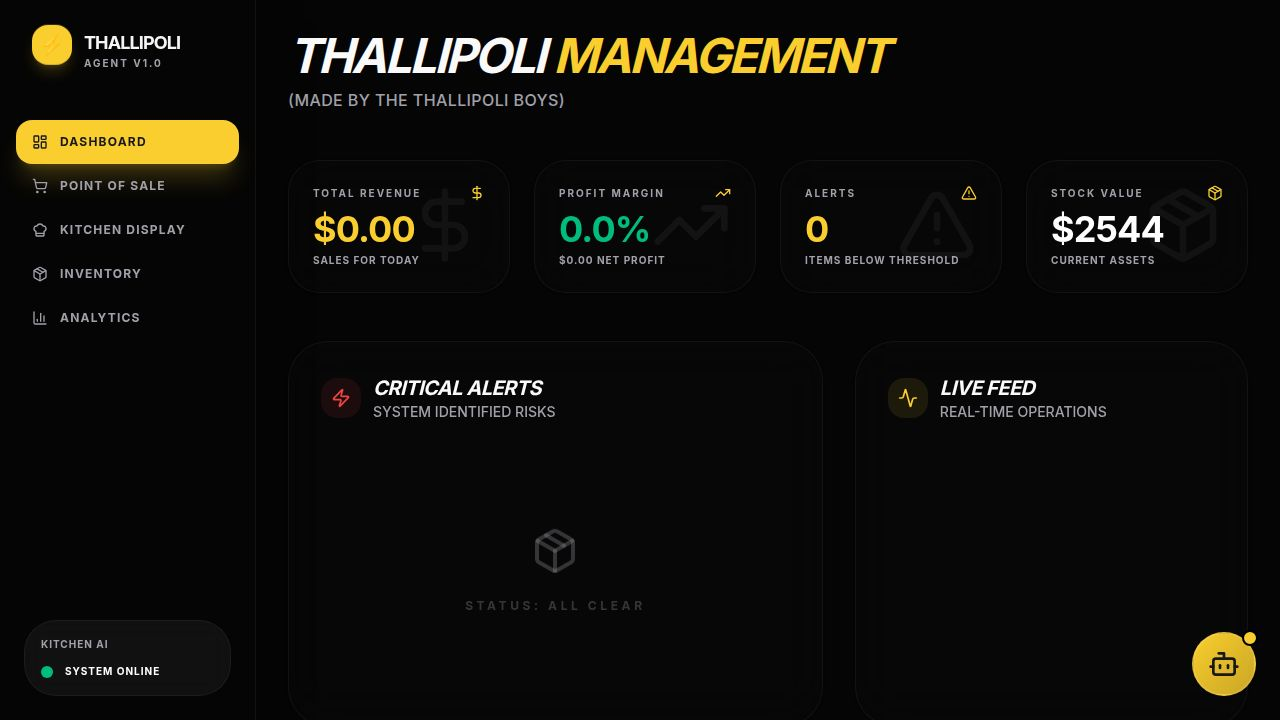
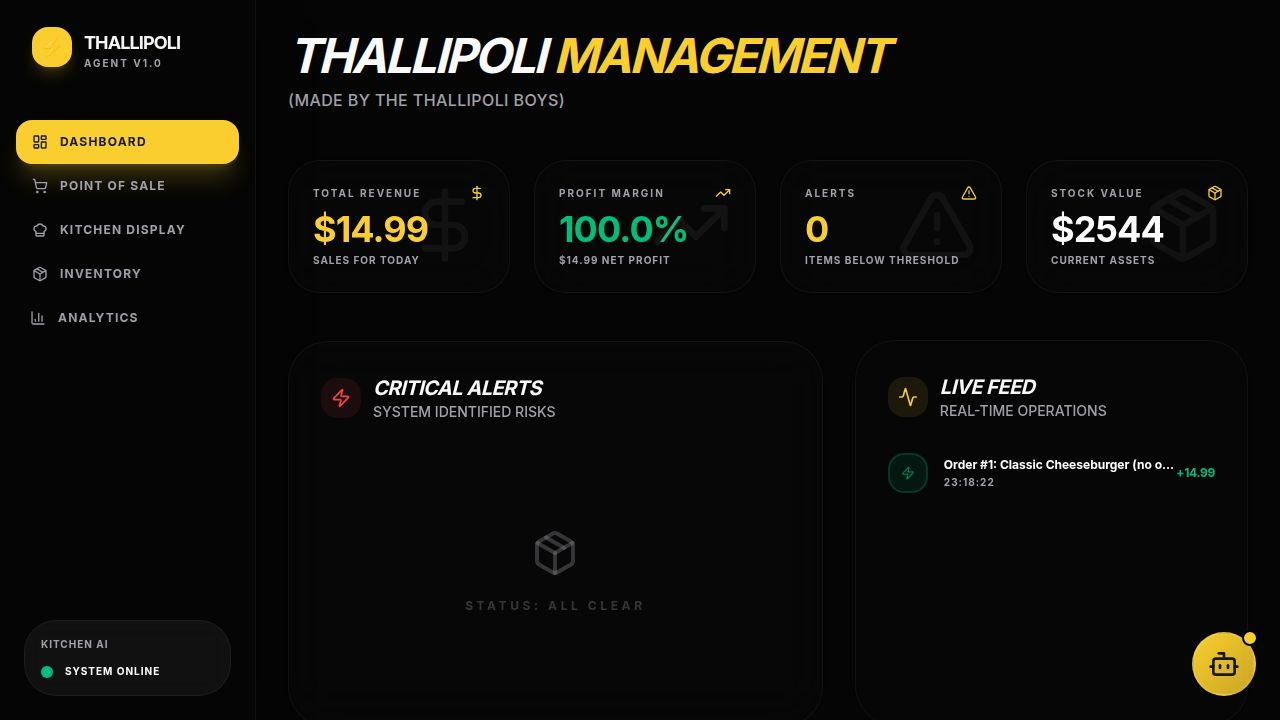
Improve order processing and inventory management functions
Update `processSale` to return a Promise, making `checkout` an async function that awaits all sales. Add new API endpoints for adding funds and restocking inventory. Remove unused `orderId` from `process_order`.

Replit-Commit-Author: Agent
Replit-Commit-Session-Id: 148e89a8-e40c-4eac-8624-4a512c91188b
Replit-Commit-Checkpoint-Type: intermediate_checkpoint
Replit-Commit-Event-Id: 6ac1e145-a768-4ce3-b652-2724d12c24d3
Replit-Commit-Screenshot-Url: https://storage.googleapis.com/screenshot-production-us-central1/72ba8fc1-8581-4828-bb0f-57bfd9c7b2e3/148e89a8-e40c-4eac-8624-4a512c91188b/0oNAqrn
Replit-Helium-Checkpoint-Created: true

diff --git a/client/src/lib/store.tsx b/client/src/lib/store.tsx
@@ -18,7 +18,7 @@ interface StoreContextType {
   cart: CartItem[];
 
   restockItem: (id: string, amount: number) => void;
-  processSale: (menuItemId: string, modifications?: { remove: string[], add: string[] }) => boolean;
+  processSale: (menuItemId: string, modifications?: { remove: string[], add: string[] }) => Promise<boolean>;
   recordWaste: (menuItemId: string, reason: string) => void;
   submitRating: (menuItemId: string, rating: number) => void;
   getLowStockItems: () => InventoryItem[];
@@ -139,19 +139,18 @@ export function StoreProvider({ children }: { children: React.ReactNode }) {
     setCart([]);
   };
 
-  const checkout = () => {
+  const checkout = async () => {
     if (cart.length === 0) return;
     
-    let successCount = 0;
-    cart.forEach(item => {
-      const success = processSale(item.menuItemId, item.modifications);
-      if (success) successCount++;
-    });
+    // Process all items and wait for all results
+    const results = await Promise.all(
+      cart.map(item => processSale(item.menuItemId, item.modifications))
+    );
+    
+    const successCount = results.filter(Boolean).length;
 
     if (successCount > 0) {
-      setCart([]);
-      
-      // Add current order to buffer for analysis
+      // Store cart data before clearing
       const orderTotal = cart.reduce((sum, item) => {
         const m = menu.find(i => i.id === item.menuItemId);
         return sum + (m?.price || 0) * item.quantity;
@@ -161,6 +160,8 @@ export function StoreProvider({ children }: { children: React.ReactNode }) {
          const m = menu.find(i => i.id === item.menuItemId);
          return m?.name || 'Unknown';
       });
+
+      setCart([]);
 
       setOrderBuffer(prev => {
         const newBuffer = [...prev, { items: orderItems, total: orderTotal }];
@@ -186,7 +187,7 @@ export function StoreProvider({ children }: { children: React.ReactNode }) {
         return newBuffer;
       });
 
-      // Generate AI Real-time Insight (Keep random one for immediate feedback too, or remove if too noisy)
+      // Generate AI Real-time Insight
       const randomInsight = [
         "Insight: High demand for burgers detected. Prepare more patties.",
         "Insight: Salad orders increasing. Ensure lettuce is prepped.",
@@ -261,13 +262,34 @@ export function StoreProvider({ children }: { children: React.ReactNode }) {
     });
   };
 
-  const addFunds = (amount: number) => {
-    setOperatingFunds(prev => prev + amount);
-    addLog('system', `Funds Added: $${amount.toFixed(2)}`);
-    toast({
-      title: "Funds Added",
-      description: `$${amount.toFixed(2)} added to operating budget.`,
-    });
+  const addFunds = async (amount: number) => {
+    try {
+      const res = await fetch('/api/funds/add', {
+        method: 'POST',
+        headers: { 'Content-Type': 'application/json' },
+        body: JSON.stringify({ amount }),
+      });
+      
+      if (res.ok) {
+        toast({
+          title: "Funds Added",
+          description: `$${amount.toFixed(2)} added to operating budget.`,
+        });
+        refreshData();
+      } else {
+        toast({
+          variant: "destructive",
+          title: "Failed",
+          description: "Could not add funds.",
+        });
+      }
+    } catch (error) {
+      toast({
+        variant: "destructive",
+        title: "Error",
+        description: "Failed to connect to server.",
+      });
+    }
   };
 
   const addLog = (type: LogEntry['type'], message: string, amount: number = 0) => {
@@ -314,7 +336,7 @@ export function StoreProvider({ children }: { children: React.ReactNode }) {
     });
   }, [inventory]);
 
-  const restockItem = (id: string, amount: number) => {
+  const restockItem = async (id: string, amount: number) => {
     const item = inventory.find(i => i.id === id);
     if (!item) return;
 
@@ -329,68 +351,84 @@ export function StoreProvider({ children }: { children: React.ReactNode }) {
       return;
     }
 
-    setOperatingFunds(prev => prev - cost);
-    
-    setInventory(prev => prev.map(i => 
-      i.id === id ? { ...i, quantity: i.quantity + amount, lastRestocked: new Date().toISOString() } : i
-    ));
-    
-    setTotalCost(prev => prev + cost);
-    addLog('restock', `Replenished ${amount}${item.unit} of ${item.name}`, -cost);
-    addLog('email', `RESTOCK NOTIFICATION: ${item.name} has been replenished by ${amount} ${item.unit}`);
-    
-    toast({
-      title: "Stock Replenished",
-      description: `Added ${amount}${item.unit} to ${item.name}. Register updated.`,
-    });
+    try {
+      const res = await fetch('/api/inventory/restock', {
+        method: 'POST',
+        headers: { 'Content-Type': 'application/json' },
+        body: JSON.stringify({ itemId: id, quantity: amount }),
+      });
+      
+      if (res.ok) {
+        toast({
+          title: "Stock Replenished",
+          description: `Added ${amount}${item.unit} to ${item.name}. Register updated.`,
+        });
+        refreshData();
+      } else {
+        const error = await res.json();
+        toast({
+          variant: "destructive",
+          title: "Restock Failed",
+          description: error.message || "Failed to restock item.",
+        });
+      }
+    } catch (error) {
+      toast({
+        variant: "destructive",
+        title: "Error",
+        description: "Failed to connect to server.",
+      });
+    }
   };
 
-  const processSale = (menuItemId: string, modifications?: { remove: string[], add: string[] }): boolean => {
+  const processSale = async (menuItemId: string, modifications?: { remove: string[], add: string[] }): Promise<boolean> => {
     const menuItem = menu.find(m => m.id === menuItemId);
     if (!menuItem) return false;
 
-    // Check availability
-    const canMake = menuItem.ingredients.every(ing => {
-      const invItem = inventory.find(i => i.id === ing.inventoryId);
-      return invItem && invItem.quantity >= ing.quantity;
-    });
-
-    if (!canMake) {
+    try {
+      const res = await fetch('/api/orders', {
+        method: 'POST',
+        headers: { 'Content-Type': 'application/json' },
+        body: JSON.stringify({
+          menuItemId,
+          customerName: 'POS Order',
+          allergies: '',
+          removedIngredients: modifications?.remove?.join(',') || '',
+          specialInstructions: modifications?.add?.join(',') || '',
+          quantity: 1,
+        }),
+      });
+      
+      if (res.ok) {
+        const data = await res.json();
+        toast({
+          title: "Order Processed",
+          description: `${menuItem.name} sent to kitchen.`,
+        });
+        
+        // Generate insight for POS order
+        const insight = `POS: New order for ${menuItem.name} - $${menuItem.price.toFixed(2)}`;
+        setRealtimeInsights(prev => [insight, ...prev].slice(0, 10));
+        
+        refreshData();
+        return true;
+      } else {
+        const error = await res.json();
+        toast({
+          variant: "destructive",
+          title: "Order Failed",
+          description: error.message || "Failed to process order.",
+        });
+        return false;
+      }
+    } catch (error) {
       toast({
         variant: "destructive",
-        title: "Out of Stock",
-        description: `Cannot make ${menuItem.name}. Missing ingredients.`,
+        title: "Error",
+        description: "Failed to connect to server.",
       });
       return false;
     }
-
-    // Deduct stock (modified)
-    setInventory(prev => prev.map(item => {
-      const ing = menuItem.ingredients.find(i => i.inventoryId === item.id);
-      if (!ing) return item;
-      
-      // If user removed this ingredient, don't deduct
-      if (modifications?.remove.includes(item.name)) return item;
-      
-      return { ...item, quantity: Math.max(0, item.quantity - ing.quantity) };
-    }));
-
-    setTotalRevenue(prev => prev + menuItem.price);
-    setOperatingFunds(prev => prev + menuItem.price); // Revenue goes back to funds
-    
-    let modText = "";
-    if (modifications && (modifications.remove.length > 0 || modifications.add.length > 0)) {
-      modText = ` (Mods: -${modifications.remove.join(',')} +${modifications.add.join(',')})`;
-    }
-    
-    addLog('sale', `Sold 1x ${menuItem.name}${modText}`, menuItem.price);
-    
-    toast({
-      title: "Order Processed",
-      description: `${menuItem.name}${modText} sent to kitchen.`,
-    });
-
-    return true;
   };
 
   const recordWaste = (menuItemId: string, reason: string) => {

diff --git a/server/routes.ts b/server/routes.ts
@@ -317,7 +317,6 @@ async function handleFunctionCall(functionName: string, args: any): Promise<any>
           status: "pending"
         },
         [{
-          orderId: 0,
           menuItemId: args.menuItemId,
           menuItemName: menuItem.name,
           price: menuItem.price,
@@ -661,6 +660,126 @@ export async function registerRoutes(
         totalCost: cost,
         lowStockCount: lowStock.length,
       });
+    } catch (error: any) {
+      res.status(500).json({ error: error.message });
+    }
+  });
+
+  // Add funds endpoint
+  app.post("/api/funds/add", async (req: Request, res: Response) => {
+    try {
+      const { amount } = req.body;
+      if (typeof amount !== 'number' || amount <= 0) {
+        return res.status(400).json({ message: "Invalid amount" });
+      }
+      
+      const fundsStr = await storage.getSetting("operating_funds");
+      const currentFunds = fundsStr ? parseFloat(fundsStr.value) : 5000;
+      const newFunds = currentFunds + amount;
+      
+      await storage.updateSetting("operating_funds", newFunds.toString());
+      await storage.createLog({ id: `log-${Date.now()}-${Math.random().toString(36).slice(2, 9)}`, type: "system", message: `Funds Added: $${amount.toFixed(2)}`, amount: 0 });
+      
+      res.json({ success: true, newFunds });
+    } catch (error: any) {
+      res.status(500).json({ error: error.message });
+    }
+  });
+
+  // Restock inventory endpoint
+  app.post("/api/inventory/restock", async (req: Request, res: Response) => {
+    try {
+      const { itemId, quantity } = req.body;
+      if (!itemId || typeof quantity !== 'number' || quantity <= 0) {
+        return res.status(400).json({ message: "Invalid item or quantity" });
+      }
+      
+      const item = await storage.getInventoryItem(itemId);
+      if (!item) {
+        return res.status(404).json({ message: "Item not found" });
+      }
+      
+      const cost = quantity * item.pricePerUnit;
+      
+      // Check funds
+      const fundsStr = await storage.getSetting("operating_funds");
+      const currentFunds = fundsStr ? parseFloat(fundsStr.value) : 5000;
+      
+      if (currentFunds < cost) {
+        return res.status(400).json({ message: `Insufficient funds. Need $${cost.toFixed(2)} but only have $${currentFunds.toFixed(2)}.` });
+      }
+      
+      // Deduct from funds
+      await storage.updateSetting("operating_funds", (currentFunds - cost).toString());
+      
+      // Update inventory
+      await storage.updateInventoryQuantity(itemId, item.quantity + quantity);
+      
+      // Log the restock
+      await storage.createLog({ id: `log-${Date.now()}-${Math.random().toString(36).slice(2, 9)}`, type: "restock", message: `Replenished ${quantity}${item.unit} of ${item.name}`, amount: -cost });
+      await storage.createLog({ id: `log-${Date.now()}-${Math.random().toString(36).slice(2, 9)}`, type: "email", message: `RESTOCK NOTIFICATION: ${item.name} has been replenished by ${quantity} ${item.unit}`, amount: 0 });
+      
+      res.json({ success: true, newQuantity: item.quantity + quantity, cost });
+    } catch (error: any) {
+      res.status(500).json({ error: error.message });
+    }
+  });
+
+  // Create order endpoint (for POS and API orders)
+  app.post("/api/orders", async (req: Request, res: Response) => {
+    try {
+      const { menuItemId, customerName, allergies, removedIngredients, specialInstructions, quantity } = req.body;
+      
+      const menuItem = await storage.getMenuItem(menuItemId);
+      if (!menuItem) {
+        return res.status(404).json({ message: "Menu item not found" });
+      }
+      
+      const qty = quantity || 1;
+      const totalPrice = menuItem.price * qty;
+      
+      // Deduct inventory for this order
+      const ingredients = await storage.getMenuIngredients(menuItemId);
+      const removedList = (removedIngredients || '').split(',').map((s: string) => s.trim().toLowerCase()).filter(Boolean);
+      
+      for (const ing of ingredients) {
+        const invItem = await storage.getInventoryItem(ing.inventoryId);
+        if (invItem) {
+          const shouldSkip = removedList.some((r: string) => invItem.name.toLowerCase().includes(r));
+          if (!shouldSkip) {
+            const newQty = Math.max(0, invItem.quantity - (ing.quantity * qty));
+            await storage.updateInventoryQuantity(ing.inventoryId, newQty);
+          }
+        }
+      }
+      
+      // Update funds (revenue)
+      const fundsStr = await storage.getSetting("operating_funds");
+      const currentFunds = fundsStr ? parseFloat(fundsStr.value) : 5000;
+      await storage.updateSetting("operating_funds", (currentFunds + totalPrice).toString());
+      
+      // Create order with items in database
+      const orderItemsList = [{
+        menuItemId,
+        menuItemName: menuItem.name,
+        quantity: qty,
+        price: menuItem.price,
+        removedIngredients: removedIngredients || null,
+        specialInstructions: specialInstructions || null,
+      }];
+      
+      const order = await storage.createOrder({
+        total: totalPrice,
+        status: "pending",
+        customerName: customerName || "Walk-in",
+        allergies: allergies || null,
+      }, orderItemsList);
+      
+      // Log the sale
+      const modText = removedIngredients ? ` (No: ${removedIngredients})` : '';
+      await storage.createLog({ id: `log-${Date.now()}-${Math.random().toString(36).slice(2, 9)}`, type: "sale", message: `Order #${order.id}: ${qty}x ${menuItem.name}${modText} for ${customerName || 'Walk-in'}`, amount: totalPrice });
+      
+      res.json({ success: true, orderId: order.id, total: totalPrice });
     } catch (error: any) {
       res.status(500).json({ error: error.message });
     }

diff --git a/shared/schema.ts b/shared/schema.ts
@@ -134,6 +134,7 @@ export const insertOrderSchema = createInsertSchema(orders).omit({
 
 export const insertOrderItemSchema = createInsertSchema(orderItems).omit({
   id: true,
+  orderId: true,
 });
 
 export const insertConversationSchema = createInsertSchema(conversations).omit({
